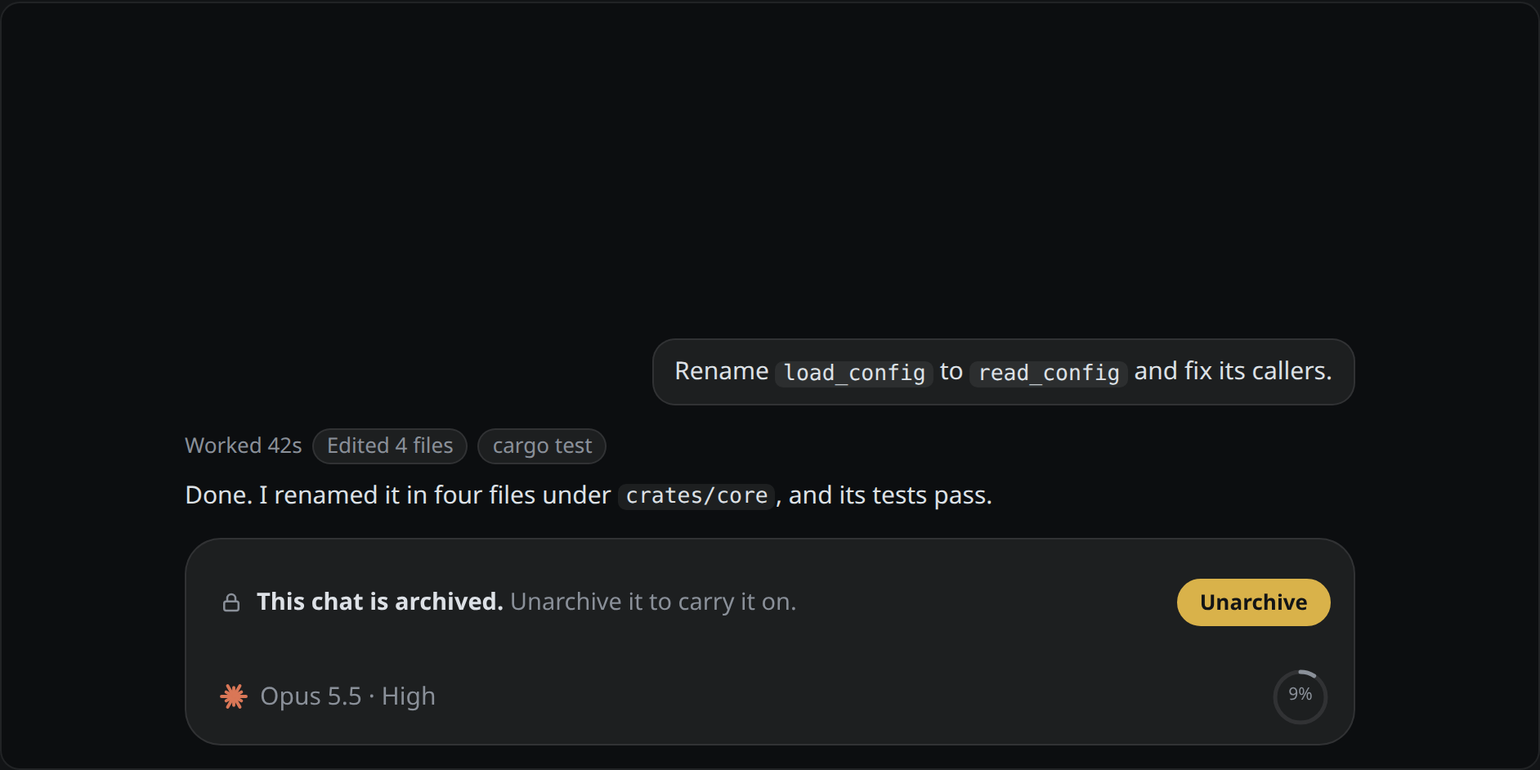
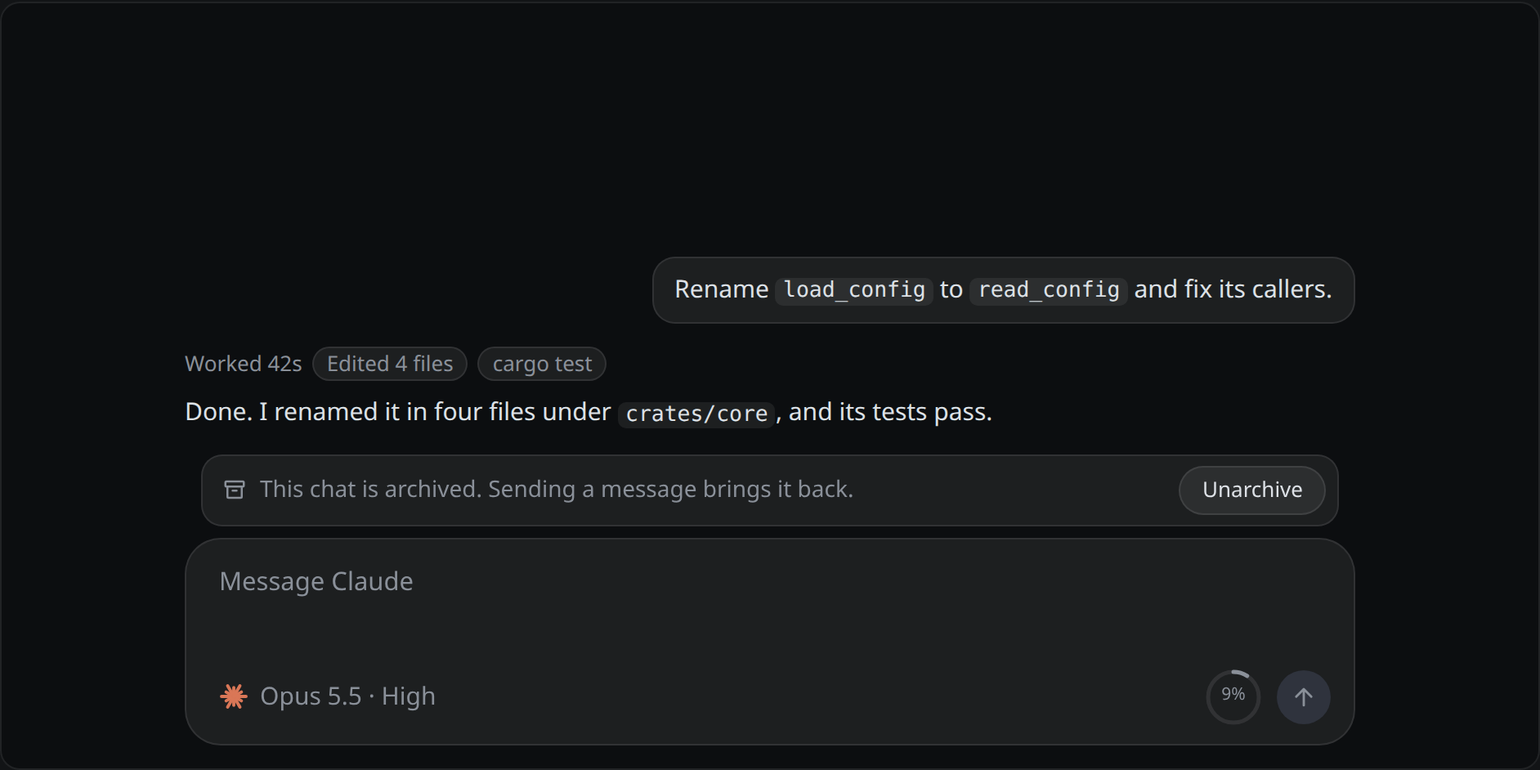
docs: an archived chat's composer stays usable, as sending brings it back
Sending to an archived chat unarchives it, so CAF SI's composer no longer
locks it: the tray says This chat is archived. Sending a message brings it
back., with Unarchive, and only the settings can't be chosen. The chats
page brings an archived chat back by a message or Unarchive, the agents
page says a viewer without the agents right has no Check again, and A
chat in the browser names orRestored. Pictures rebuilt.

diff --git a/docs/learn/si-live/chats.html b/docs/learn/si-live/chats.html
@@ -109,6 +109,7 @@
 .si-tray .si-item { display: flex; gap: 10px; align-items: center; padding: 6px 0; border-top: 1px solid var(--raised-edge); }
 .si-tray .si-item:first-of-type { border-top: 0; }
 .si-tray .si-item .si-text { flex: 1; min-width: 0; white-space: nowrap; overflow: hidden; text-overflow: ellipsis; }
+.si-tray.si-note { display: flex; gap: 8px; align-items: center; padding: 6px 7px 6px 12px; color: var(--muted); }
 .si-tray.si-problem { background: var(--warning-bg); border-color: var(--warning-edge); color: var(--warning); display: flex; gap: 8px; align-items: center; padding: 8px 12px; }
 
 /* What attaches on top of the box: questions, the agent banner, refusals.
@@ -412,6 +413,7 @@
     tick: svg('<path d="M5 12l5 5 9-11"/>', '', 'width:15px;height:15px'),
     warn: svg('<path d="M12 3l10 18H2z"/><path d="M12 10v4M12 17.5v.5"/>', '', 'width:15px;height:15px'),
     lock: svg('<rect x="5" y="11" width="14" height="9" rx="2"/><path d="M8 11V8a4 4 0 018 0v3"/>', '', 'width:15px;height:15px'),
+    archive: svg('<rect x="3" y="4" width="18" height="5" rx="1"/><path d="M5 9v10a1 1 0 001 1h12a1 1 0 001-1V9M10 13h4"/>', '', 'width:15px;height:15px'),
     unplug: svg('<path d="M9 7V3M15 7V3M7 7h10v4a5 5 0 01-10 0zM12 16v5M3 3l18 18"/>', '', 'width:15px;height:15px'),
     search: svg('<circle cx="11" cy="11" r="7"/><path d="M20 20l-4-4"/>', '', 'width:15px;height:15px'),
     star: svg('<path d="M12 3l2.7 5.6 6.1.8-4.5 4.2 1.1 6.1L12 16.8 6.6 19.7l1.1-6.1L3.2 9.4l6.1-.8z"/>', '', 'width:15px;height:15px'),
@@ -459,9 +461,11 @@
   const DEFAULTS = {
     agent: 'claude',
     text: '', running: false, stopping: false, waiting: 0, waitingFor: 'this turn', waitingNote: null, problem: null, gate: false,
-    // A string, or { text, icon: 'lock' | 'unplug', bold, action }: nothing can be sent.
-    // An action, such as Unarchive, is the one thing to do, as a button.
+    // A string, or { text, icon: 'lock' | 'unplug', bold }: nothing can be sent.
     blocked: null,
+    // Archived: the tray says so and offers Unarchive; the box is as usual,
+    // but the settings can't be chosen.
+    archived: false,
     // known | unknown | learning | failed | none
     settings: 'known',
     // Why CAF couldn't learn the settings, as the composer page words it, and
@@ -493,6 +497,8 @@
     if (s.settings === 'learning') return `<span class="si-control si-quiet">${m}<span class="si-label">Learning ${name}'s settings…</span>${icon.spin}</span>`
     if (s.settings === 'unknown') return `<span class="si-control si-quiet${s.menu ? ' si-open' : ''}">${m}<span class="si-label">${s.narrow ? 'Settings' : s.newChat ? name : 'Settings not known yet'}</span>${icon.chev}</span>`
     if (s.settings === 'failed') return `<span class="si-control si-quiet${s.menu ? ' si-open' : ''}">${m}<span class="si-label">${s.narrow ? 'Settings' : `Couldn't learn ${name}'s settings`}</span>${icon.chev}</span>`
+    // Archived, the settings can't be chosen: shown, as when nothing can be sent, with nothing to open.
+    if (s.archived) return `<span class="si-control si-quiet">${m}<span class="si-label">${s.model} · ${s.effort}</span></span>`
     const part = (now, later) => later ? `<span class="si-part si-held" title="${s.running ? 'From the next turn' : 'Not applied yet'}">${icon.clock}${later}</span>` : `<span class="si-part">${now}</span>`
     const fast = OFFERS[s.model] && OFFERS[s.model].fast && s.fast
     return `<span class="si-control${s.menu ? ' si-open' : ''}">${m}<span class="si-label">${part(s.model, s.held.model)}<span class="si-sep">·</span>${part(s.effort, s.held.effort)}${fast ? icon.bolt : ''}</span>${icon.chev}</span>`
@@ -554,12 +560,13 @@
         waiting.map(t => `<div class="si-item">${icon.clock}<span class="si-text">${t}</span></div>`).join('') + '</div>'
     }
     if (s.problem) h += `<div class="si-tray si-problem">${icon.warn}${s.problem}</div>`
+    if (s.archived) h += `<div class="si-tray si-note">${icon.archive}<span>This chat is archived. Sending a message brings it back.</span><span class="si-spacer"></span><span class="si-btn">Unarchive</span></div>`
     h += s.attached
     const joined = s.attached ? ` si-joined${s.joined ? ' si-' + s.joined : ''}` : ''
     h += `<div class="si-box${joined}">`
     if (s.blocked) {
       const b = typeof s.blocked === 'string' ? { text: s.blocked } : s.blocked
-      h += `<div class="si-locked">${icon[b.icon || 'lock']}<span>${b.bold ? `<b>${b.bold}</b> ` : ''}${b.text}</span>${b.action ? `<span class="si-spacer"></span><span class="si-btn si-primary">${b.action}</span>` : ''}</div>`
+      h += `<div class="si-locked">${icon[b.icon || 'lock']}<span>${b.bold ? `<b>${b.bold}</b> ` : ''}${b.text}</span></div>`
       if (b.controls !== false) h += `<div class="si-controls"><span class="si-control si-quiet">${mark(s.agent)}<span class="si-label">${s.settings === 'known' ? s.model + ' · ' + s.effort : name}</span></span><span class="si-spacer"></span>${ring(s)}</div>`
       return h + `</div>${s.after}</div></div>`
     }
@@ -692,7 +699,7 @@
     { id: 'cant-appdata', label: "Can't restore: app's data", note: "The app can't read the data it saved with the chat. Nothing helps but a version of the app that can, so there are no actions.", render: () => failure('appdata') },
     { id: 'cant-store', label: "Can't restore: couldn't read", note: 'The store failed, such as a disk error. What the system said is shown. Trying again may help.', render: () => failure('store') },
     { id: 'cant-gone', label: "Can't restore: gone", note: "Its save has gone. Remove from list lists the chats again, and it drops out. A viewer, which can't list them, offers nothing.", render: () => failure('gone') },
-    { id: 'archived', label: 'An archived chat, opened', note: "Opening an archived chat restores it, as any saved chat, and it's still archived: the header says so, and the composer is locked, offering Unarchive. Unarchiving it, or a message sent to it, makes it an ordinary chat again.", render: () => head('Fix the restore race', { badge: '<span class="badge">Archived</span>' }) + `<div class="body"><div class="column">${convo}</div></div>` + composer({ blocked: { bold: 'This chat is archived.', text: 'Unarchive it to carry it on.', action: 'Unarchive' } }) },
+    { id: 'archived', label: 'An archived chat, opened', note: "Opening an archived chat restores it, as any saved chat, and it's still archived: the header says so, and the composer's tray says so, offering Unarchive. A message sent to it, or Unarchive, makes it an ordinary chat again.", render: () => head('Fix the restore race', { badge: '<span class="badge">Archived</span>' }) + `<div class="body"><div class="column">${convo}</div></div>` + composer({ archived: true }) },
     { id: 'agent-gone', label: 'Agent gone', note: "Its agent isn't offered by this app any more, so it can be read but not carried on. The box says why instead of offering to send.", render: () => head('Parser fuzzing notes', { mark: MARK.gemini }) + `<div class="body"><div class="column">${FUZZ}</div></div>` + composer({ agent: 'gemini', settings: 'none', context: 31, blocked: { icon: 'unplug', bold: "Gemini isn't available in this app any more.", text: 'You can read this chat, but not carry it on.' } }) + `` },
     { id: 'own-tools', label: 'Own tools on', note: "Its agent is offered, but CAF won't run it, as it can't turn off the agent's own tools: the app chose the cautious profile, or the agent isn't the one its profile is for. Like an agent gone, it can be read but not carried on.", render: () => head('Fix the empty-file panic') + `<div class="body"><div class="column">${convo}</div></div>` + composer({ settings: 'none', context: 18, blocked: { icon: 'lock', bold: "Claude can't be used: its own tools can't be turned off.", text: 'You can read this chat, but not carry it on.' } }) },
     { id: 'new', label: 'New chat', note: "An empty chat with the usual composer: the settings control picks the agent and its model (the menu's rail lists every agent in a new chat). There's no context yet, so no ring. This app fixes the folder, so there's no folder control.", render: () => head('New chat') + `<div class="body"><div class="centre">${rays('var(--claude)', 30)}<h3>New chat</h3>Send a message to start.</div></div>` + composer({ newChat: true, context: null }) },

diff --git a/docs/learn/si-live/compose.html b/docs/learn/si-live/compose.html
@@ -109,6 +109,7 @@
 .si-tray .si-item { display: flex; gap: 10px; align-items: center; padding: 6px 0; border-top: 1px solid var(--raised-edge); }
 .si-tray .si-item:first-of-type { border-top: 0; }
 .si-tray .si-item .si-text { flex: 1; min-width: 0; white-space: nowrap; overflow: hidden; text-overflow: ellipsis; }
+.si-tray.si-note { display: flex; gap: 8px; align-items: center; padding: 6px 7px 6px 12px; color: var(--muted); }
 .si-tray.si-problem { background: var(--warning-bg); border-color: var(--warning-edge); color: var(--warning); display: flex; gap: 8px; align-items: center; padding: 8px 12px; }
 
 /* What attaches on top of the box: questions, the agent banner, refusals.
@@ -321,6 +322,7 @@
     tick: svg('<path d="M5 12l5 5 9-11"/>', '', 'width:15px;height:15px'),
     warn: svg('<path d="M12 3l10 18H2z"/><path d="M12 10v4M12 17.5v.5"/>', '', 'width:15px;height:15px'),
     lock: svg('<rect x="5" y="11" width="14" height="9" rx="2"/><path d="M8 11V8a4 4 0 018 0v3"/>', '', 'width:15px;height:15px'),
+    archive: svg('<rect x="3" y="4" width="18" height="5" rx="1"/><path d="M5 9v10a1 1 0 001 1h12a1 1 0 001-1V9M10 13h4"/>', '', 'width:15px;height:15px'),
     unplug: svg('<path d="M9 7V3M15 7V3M7 7h10v4a5 5 0 01-10 0zM12 16v5M3 3l18 18"/>', '', 'width:15px;height:15px'),
     search: svg('<circle cx="11" cy="11" r="7"/><path d="M20 20l-4-4"/>', '', 'width:15px;height:15px'),
     star: svg('<path d="M12 3l2.7 5.6 6.1.8-4.5 4.2 1.1 6.1L12 16.8 6.6 19.7l1.1-6.1L3.2 9.4l6.1-.8z"/>', '', 'width:15px;height:15px'),
@@ -368,9 +370,11 @@
   const DEFAULTS = {
     agent: 'claude',
     text: '', running: false, stopping: false, waiting: 0, waitingFor: 'this turn', waitingNote: null, problem: null, gate: false,
-    // A string, or { text, icon: 'lock' | 'unplug', bold, action }: nothing can be sent.
-    // An action, such as Unarchive, is the one thing to do, as a button.
+    // A string, or { text, icon: 'lock' | 'unplug', bold }: nothing can be sent.
     blocked: null,
+    // Archived: the tray says so and offers Unarchive; the box is as usual,
+    // but the settings can't be chosen.
+    archived: false,
     // known | unknown | learning | failed | none
     settings: 'known',
     // Why CAF couldn't learn the settings, as the composer page words it, and
@@ -402,6 +406,8 @@
     if (s.settings === 'learning') return `<span class="si-control si-quiet">${m}<span class="si-label">Learning ${name}'s settings…</span>${icon.spin}</span>`
     if (s.settings === 'unknown') return `<span class="si-control si-quiet${s.menu ? ' si-open' : ''}">${m}<span class="si-label">${s.narrow ? 'Settings' : s.newChat ? name : 'Settings not known yet'}</span>${icon.chev}</span>`
     if (s.settings === 'failed') return `<span class="si-control si-quiet${s.menu ? ' si-open' : ''}">${m}<span class="si-label">${s.narrow ? 'Settings' : `Couldn't learn ${name}'s settings`}</span>${icon.chev}</span>`
+    // Archived, the settings can't be chosen: shown, as when nothing can be sent, with nothing to open.
+    if (s.archived) return `<span class="si-control si-quiet">${m}<span class="si-label">${s.model} · ${s.effort}</span></span>`
     const part = (now, later) => later ? `<span class="si-part si-held" title="${s.running ? 'From the next turn' : 'Not applied yet'}">${icon.clock}${later}</span>` : `<span class="si-part">${now}</span>`
     const fast = OFFERS[s.model] && OFFERS[s.model].fast && s.fast
     return `<span class="si-control${s.menu ? ' si-open' : ''}">${m}<span class="si-label">${part(s.model, s.held.model)}<span class="si-sep">·</span>${part(s.effort, s.held.effort)}${fast ? icon.bolt : ''}</span>${icon.chev}</span>`
@@ -463,12 +469,13 @@
         waiting.map(t => `<div class="si-item">${icon.clock}<span class="si-text">${t}</span></div>`).join('') + '</div>'
     }
     if (s.problem) h += `<div class="si-tray si-problem">${icon.warn}${s.problem}</div>`
+    if (s.archived) h += `<div class="si-tray si-note">${icon.archive}<span>This chat is archived. Sending a message brings it back.</span><span class="si-spacer"></span><span class="si-btn">Unarchive</span></div>`
     h += s.attached
     const joined = s.attached ? ` si-joined${s.joined ? ' si-' + s.joined : ''}` : ''
     h += `<div class="si-box${joined}">`
     if (s.blocked) {
       const b = typeof s.blocked === 'string' ? { text: s.blocked } : s.blocked
-      h += `<div class="si-locked">${icon[b.icon || 'lock']}<span>${b.bold ? `<b>${b.bold}</b> ` : ''}${b.text}</span>${b.action ? `<span class="si-spacer"></span><span class="si-btn si-primary">${b.action}</span>` : ''}</div>`
+      h += `<div class="si-locked">${icon[b.icon || 'lock']}<span>${b.bold ? `<b>${b.bold}</b> ` : ''}${b.text}</span></div>`
       if (b.controls !== false) h += `<div class="si-controls"><span class="si-control si-quiet">${mark(s.agent)}<span class="si-label">${s.settings === 'known' ? s.model + ' · ' + s.effort : name}</span></span><span class="si-spacer"></span>${ring(s)}</div>`
       return h + `</div>${s.after}</div></div>`
     }
@@ -529,7 +536,7 @@
     { id: 'gate', label: 'Agent not ready', what: "<b>The chat is waiting for Claude to be installed.</b> The agent banner attaches to the box, as questions do (see the agents page), and the box says messages will wait.", s: { gate: true } },
     { id: 'filling', label: 'Context filling', what: '<b>The context is 86% full,</b> so the ring turns amber (red past 95%).', s: { context: 86 } },
     { id: 'blocked', label: "Can't write", what: "<b>A viewer without the <code>act</code> right.</b> The box stays in place, says why, and has no controls.", s: { blocked: 'You can follow this chat, but not write in it.' } },
-    { id: 'archived', label: 'Archived', what: "<b>An archived chat,</b> restored or not: it stays archived until it's unarchived. The box is locked, says so, and offers Unarchive, which makes it an ordinary chat again.", s: { blocked: { bold: 'This chat is archived.', text: 'Unarchive it to carry it on.', action: 'Unarchive' } } },
+    { id: 'archived', label: 'Archived', what: "<b>An archived chat,</b> restored or not: it stays archived until it's brought back. Sending a message brings it back, so the box is as usual; the tray says so, and offers Unarchive. Only the settings can't be chosen meanwhile.", s: { archived: true } },
   ]
 
   // The agent banner, as agents.html draws it, attached to the box.

diff --git a/docs/si/si.js b/docs/si/si.js
@@ -21,6 +21,7 @@
     tick: svg('<path d="M5 12l5 5 9-11"/>', '', 'width:15px;height:15px'),
     warn: svg('<path d="M12 3l10 18H2z"/><path d="M12 10v4M12 17.5v.5"/>', '', 'width:15px;height:15px'),
     lock: svg('<rect x="5" y="11" width="14" height="9" rx="2"/><path d="M8 11V8a4 4 0 018 0v3"/>', '', 'width:15px;height:15px'),
+    archive: svg('<rect x="3" y="4" width="18" height="5" rx="1"/><path d="M5 9v10a1 1 0 001 1h12a1 1 0 001-1V9M10 13h4"/>', '', 'width:15px;height:15px'),
     unplug: svg('<path d="M9 7V3M15 7V3M7 7h10v4a5 5 0 01-10 0zM12 16v5M3 3l18 18"/>', '', 'width:15px;height:15px'),
     search: svg('<circle cx="11" cy="11" r="7"/><path d="M20 20l-4-4"/>', '', 'width:15px;height:15px'),
     star: svg('<path d="M12 3l2.7 5.6 6.1.8-4.5 4.2 1.1 6.1L12 16.8 6.6 19.7l1.1-6.1L3.2 9.4l6.1-.8z"/>', '', 'width:15px;height:15px'),
@@ -68,9 +69,11 @@
   const DEFAULTS = {
     agent: 'claude',
     text: '', running: false, stopping: false, waiting: 0, waitingFor: 'this turn', waitingNote: null, problem: null, gate: false,
-    // A string, or { text, icon: 'lock' | 'unplug', bold, action }: nothing can be sent.
-    // An action, such as Unarchive, is the one thing to do, as a button.
+    // A string, or { text, icon: 'lock' | 'unplug', bold }: nothing can be sent.
     blocked: null,
+    // Archived: the tray says so and offers Unarchive; the box is as usual,
+    // but the settings can't be chosen.
+    archived: false,
     // known | unknown | learning | failed | none
     settings: 'known',
     // Why CAF couldn't learn the settings, as the composer page words it, and
@@ -102,6 +105,8 @@
     if (s.settings === 'learning') return `<span class="si-control si-quiet">${m}<span class="si-label">Learning ${name}'s settings…</span>${icon.spin}</span>`
     if (s.settings === 'unknown') return `<span class="si-control si-quiet${s.menu ? ' si-open' : ''}">${m}<span class="si-label">${s.narrow ? 'Settings' : s.newChat ? name : 'Settings not known yet'}</span>${icon.chev}</span>`
     if (s.settings === 'failed') return `<span class="si-control si-quiet${s.menu ? ' si-open' : ''}">${m}<span class="si-label">${s.narrow ? 'Settings' : `Couldn't learn ${name}'s settings`}</span>${icon.chev}</span>`
+    // Archived, the settings can't be chosen: shown, as when nothing can be sent, with nothing to open.
+    if (s.archived) return `<span class="si-control si-quiet">${m}<span class="si-label">${s.model} · ${s.effort}</span></span>`
     const part = (now, later) => later ? `<span class="si-part si-held" title="${s.running ? 'From the next turn' : 'Not applied yet'}">${icon.clock}${later}</span>` : `<span class="si-part">${now}</span>`
     const fast = OFFERS[s.model] && OFFERS[s.model].fast && s.fast
     return `<span class="si-control${s.menu ? ' si-open' : ''}">${m}<span class="si-label">${part(s.model, s.held.model)}<span class="si-sep">·</span>${part(s.effort, s.held.effort)}${fast ? icon.bolt : ''}</span>${icon.chev}</span>`
@@ -163,12 +168,13 @@
         waiting.map(t => `<div class="si-item">${icon.clock}<span class="si-text">${t}</span></div>`).join('') + '</div>'
     }
     if (s.problem) h += `<div class="si-tray si-problem">${icon.warn}${s.problem}</div>`
+    if (s.archived) h += `<div class="si-tray si-note">${icon.archive}<span>This chat is archived. Sending a message brings it back.</span><span class="si-spacer"></span><span class="si-btn">Unarchive</span></div>`
     h += s.attached
     const joined = s.attached ? ` si-joined${s.joined ? ' si-' + s.joined : ''}` : ''
     h += `<div class="si-box${joined}">`
     if (s.blocked) {
       const b = typeof s.blocked === 'string' ? { text: s.blocked } : s.blocked
-      h += `<div class="si-locked">${icon[b.icon || 'lock']}<span>${b.bold ? `<b>${b.bold}</b> ` : ''}${b.text}</span>${b.action ? `<span class="si-spacer"></span><span class="si-btn si-primary">${b.action}</span>` : ''}</div>`
+      h += `<div class="si-locked">${icon[b.icon || 'lock']}<span>${b.bold ? `<b>${b.bold}</b> ` : ''}${b.text}</span></div>`
       if (b.controls !== false) h += `<div class="si-controls"><span class="si-control si-quiet">${mark(s.agent)}<span class="si-label">${s.settings === 'known' ? s.model + ' · ' + s.effort : name}</span></span><span class="si-spacer"></span>${ring(s)}</div>`
       return h + `</div>${s.after}</div></div>`
     }

diff --git a/docs/si/chats.html b/docs/si/chats.html
@@ -309,7 +309,7 @@
     { id: 'cant-appdata', label: "Can't restore: app's data", note: "The app can't read the data it saved with the chat. Nothing helps but a version of the app that can, so there are no actions.", render: () => failure('appdata') },
     { id: 'cant-store', label: "Can't restore: couldn't read", note: 'The store failed, such as a disk error. What the system said is shown. Trying again may help.', render: () => failure('store') },
     { id: 'cant-gone', label: "Can't restore: gone", note: "Its save has gone. Remove from list lists the chats again, and it drops out. A viewer, which can't list them, offers nothing.", render: () => failure('gone') },
-    { id: 'archived', label: 'An archived chat, opened', note: "Opening an archived chat restores it, as any saved chat, and it's still archived: the header says so, and the composer is locked, offering Unarchive. Unarchiving it, or a message sent to it, makes it an ordinary chat again.", render: () => head('Fix the restore race', { badge: '<span class="badge">Archived</span>' }) + `<div class="body"><div class="column">${convo}</div></div>` + composer({ blocked: { bold: 'This chat is archived.', text: 'Unarchive it to carry it on.', action: 'Unarchive' } }) },
+    { id: 'archived', label: 'An archived chat, opened', note: "Opening an archived chat restores it, as any saved chat, and it's still archived: the header says so, and the composer's tray says so, offering Unarchive. A message sent to it, or Unarchive, makes it an ordinary chat again.", render: () => head('Fix the restore race', { badge: '<span class="badge">Archived</span>' }) + `<div class="body"><div class="column">${convo}</div></div>` + composer({ archived: true }) },
     { id: 'agent-gone', label: 'Agent gone', note: "Its agent isn't offered by this app any more, so it can be read but not carried on. The box says why instead of offering to send.", render: () => head('Parser fuzzing notes', { mark: MARK.gemini }) + `<div class="body"><div class="column">${FUZZ}</div></div>` + composer({ agent: 'gemini', settings: 'none', context: 31, blocked: { icon: 'unplug', bold: "Gemini isn't available in this app any more.", text: 'You can read this chat, but not carry it on.' } }) + `` },
     { id: 'own-tools', label: 'Own tools on', note: "Its agent is offered, but CAF won't run it, as it can't turn off the agent's own tools: the app chose the cautious profile, or the agent isn't the one its profile is for. Like an agent gone, it can be read but not carried on.", render: () => head('Fix the empty-file panic') + `<div class="body"><div class="column">${convo}</div></div>` + composer({ settings: 'none', context: 18, blocked: { icon: 'lock', bold: "Claude can't be used: its own tools can't be turned off.", text: 'You can read this chat, but not carry it on.' } }) },
     { id: 'new', label: 'New chat', note: "An empty chat with the usual composer: the settings control picks the agent and its model (the menu's rail lists every agent in a new chat). There's no context yet, so no ring. This app fixes the folder, so there's no folder control.", render: () => head('New chat') + `<div class="body"><div class="centre">${rays('var(--claude)', 30)}<h3>New chat</h3>Send a message to start.</div></div>` + composer({ newChat: true, context: null }) },

diff --git a/docs/si/compose.html b/docs/si/compose.html
@@ -146,7 +146,7 @@
     { id: 'gate', label: 'Agent not ready', what: "<b>The chat is waiting for Claude to be installed.</b> The agent banner attaches to the box, as questions do (see the agents page), and the box says messages will wait.", s: { gate: true } },
     { id: 'filling', label: 'Context filling', what: '<b>The context is 86% full,</b> so the ring turns amber (red past 95%).', s: { context: 86 } },
     { id: 'blocked', label: "Can't write", what: "<b>A viewer without the <code>act</code> right.</b> The box stays in place, says why, and has no controls.", s: { blocked: 'You can follow this chat, but not write in it.' } },
-    { id: 'archived', label: 'Archived', what: "<b>An archived chat,</b> restored or not: it stays archived until it's unarchived. The box is locked, says so, and offers Unarchive, which makes it an ordinary chat again.", s: { blocked: { bold: 'This chat is archived.', text: 'Unarchive it to carry it on.', action: 'Unarchive' } } },
+    { id: 'archived', label: 'Archived', what: "<b>An archived chat,</b> restored or not: it stays archived until it's brought back. Sending a message brings it back, so the box is as usual; the tray says so, and offers Unarchive. Only the settings can't be chosen meanwhile.", s: { archived: true } },
   ]
 
   // The agent banner, as agents.html draws it, attached to the box.

diff --git a/docs/si/si.css b/docs/si/si.css
@@ -102,6 +102,7 @@
 .si-tray .si-item { display: flex; gap: 10px; align-items: center; padding: 6px 0; border-top: 1px solid var(--raised-edge); }
 .si-tray .si-item:first-of-type { border-top: 0; }
 .si-tray .si-item .si-text { flex: 1; min-width: 0; white-space: nowrap; overflow: hidden; text-overflow: ellipsis; }
+.si-tray.si-note { display: flex; gap: 8px; align-items: center; padding: 6px 7px 6px 12px; color: var(--muted); }
 .si-tray.si-problem { background: var(--warning-bg); border-color: var(--warning-edge); color: var(--warning); display: flex; gap: 8px; align-items: center; padding: 8px 12px; }
 
 /* What attaches on top of the box: questions, the agent banner, refusals.

diff --git a/docs/learn/2--developer-tools.shelf/caf.product/3--standard-interface.topic/200--composer.md b/docs/learn/2--developer-tools.shelf/caf.product/3--standard-interface.topic/200--composer.md
@@ -34,7 +34,7 @@ bottom. Nothing sits above the text inside the box.
 | The settings control | Bottom left | The agent's mark and one control for all its settings: *Opus 5.5 · High*, with a bolt when fast mode is on. It opens the settings menu. |
 | The context ring | Bottom right | How full the agent's context is, as a ring and a percent. It opens the usage popover. |
 | The round button | Bottom right, after the ring | **Send**, or **Stop** while a turn runs or the chat opens, and the box is empty. |
-| The tray | Above the box | Messages waiting to be sent, or why a message couldn't be sent. |
+| The tray | Above the box | Messages waiting to be sent, why a message couldn't be sent, or that the chat is archived. |
 | What's attached | Between the tray and the box, joined to the box | A question waiting on the user, or the agent banner. Only one at a time. |
 
 From the top, then: the tray, then what's attached, then the box.
@@ -78,10 +78,11 @@ words are never lost. The words, by what happened:
 | The agent can't take the message (`Refused::Unsupported`) | *Couldn't send: Claude can't take this message.* |
 | The chat isn't open any more (`Refused::NoSuchChat`) | *Couldn't send: this chat isn't open any more.* |
 
-A chat that's archived (`Chat.archived`), or whose agent is gone or can't
-be run (`Refused::NoSuchAgent`, `Refused::OwnTools`), shows
-[Can't write](#what-the-chat-allows) instead, so the user isn't invited to
-send at all.
+A chat whose agent is gone or can't be run (`Refused::NoSuchAgent`,
+`Refused::OwnTools`) shows [Can't write](#what-the-chat-allows) instead, so
+the user isn't invited to send at all. An archived chat isn't one: a
+message to it is sent, and brings it back, as
+[Archived](#what-the-chat-allows) says.
 
 ## Messages that wait
 
@@ -338,6 +339,25 @@ before the agent has said, has no ring. Clicking the ring opens the usage
 popover, and a dot on the ring warns of an account limit running low: see
 [Usage](~caf/standard-interface/usage).
 
+![An archived chat's composer](composer-archived.webp "Archived: the tray says so, and the box is as usual")
+
+**Archived.** A chat stays archived (`Chat.archived`), restored or not,
+until it's brought back. Sending a message brings it back: CAF unarchives
+it and sends the message as to any other (`Core::send`). So the box stays
+as usual, and the user can write and send. The tray says, calm, with an
+archive box, *This chat is archived. Sending a message brings it back.*,
+and offers **Unarchive**, plain, at its other end, which brings it back
+without sending (`Core::unarchive`; a viewer's `Unarchive`, with the `act`
+right). Either way the note goes at once, and the chat is an ordinary one,
+its agent started when a message is sent, as for a restored chat.
+
+While it's archived, only its settings can't be chosen, as CAF refuses to
+change them (`Refused::Closed`): the control shows the model and effort,
+without the bolt or the chevron, and can't be opened, as when the user
+can't write. They can be chosen again once it's back. A viewer without the
+`act` right sees the note without Unarchive, and the box as
+[Can't write](#what-the-chat-allows) says.
+
 ![A composer the user can't write in](composer-blocked.webp "Watch-only: the box stays and says why")
 
 **Can't write.** The box stays where it is, with a lock, and says why, by
@@ -346,23 +366,8 @@ the first of these that holds:
 | Why | The box says |
 | --- | --- |
 | The viewer has no `act` right | *You can follow this chat, but not write in it.* |
-| The chat is archived (`Chat.archived`) | ***This chat is archived.*** *Unarchive it to carry it on.*, with **Unarchive** |
 | Its agent is gone, or CAF won't run it | As [A chat's identity and lifecycle](~caf/standard-interface/chats) says |
 | Its agent can never be installed on this machine | As [Agents](~caf/standard-interface/agents) says |
-
-![An archived chat's composer](composer-archived.webp "Archived: the box is locked, and offers Unarchive")
-
-**Archived.** A chat stays archived, restored or not, until it's
-unarchived. **Unarchive**, the primary button at the end of the line, makes
-it an ordinary chat again, and the box unlocks: nothing more happens until
-the user sends, which starts the agent, as for a restored chat
-(`Core::unarchive`; a viewer's `Unarchive`, with the `act` right). Sending
-to an archived chat unarchives it too: CAF takes a message to it as the
-user carrying it on (`Core::send`). The box stays locked all the same, so
-the user takes it out of the archive knowingly, with one press; an app
-that sends without the composer, such as for a shortcut or a script,
-needn't unarchive first. The settings stay locked while it's archived, as
-CAF refuses to change them (`Refused::Closed`).
 
 It has no Send, Stop or settings menu. The control shows the model and
 effort, without the bolt or the chevron, and can't be opened; the ring stays.
@@ -398,8 +403,9 @@ half a word.
 | A change not applied yet | `settings.chosen` differing from `current`, when `offered` holds the setting and its `current` is known. |
 | The model divider | `Turn.model` differing from the turn before. |
 | The context ring | `Usage.used` and `Usage.size`. |
-| Whether the user may write | The viewer's `act` right, `Chat.archived`, and the chat's state. |
-| **Unarchive** | `Core::unarchive`, or a viewer's `Unarchive`, with the `act` right: `Chat.archived` goes back to none, by `Change::Archived`. `Core::send` unarchives a chat too. |
+| Whether the user may write | The viewer's `act` right, and the chat's state. |
+| Archived | `Chat.archived`, by `Change::Archived`; `Refused::Closed` for a setting chosen meanwhile. |
+| **Unarchive** | `Core::unarchive`, or a viewer's `Unarchive`, with the `act` right: `Chat.archived` goes back to none. `Core::send` unarchives a chat too, then sends. |
 | Why the settings couldn't be learned | `AgentStatus.settings`'s `Failed`, a `LearnFailure`; the system's words in `CouldNotStart.error`, the agent's in `Refused.message`. |
 | **Learn them now** | The viewer's `agents` right; `Core::learn_settings`. |
 | The agent banner | The agent's status, as [Agents](~caf/standard-interface/agents) describes. |

diff --git a/docs/learn/2--developer-tools.shelf/caf.product/3--standard-interface.topic/500--chats.md b/docs/learn/2--developer-tools.shelf/caf.product/3--standard-interface.topic/500--chats.md
@@ -283,26 +283,26 @@ it's muted, with an *Archived* badge, and the full identity shows on its
 right when it was archived, in place of when it last changed. A chat saved
 archived before CAF kept when shows when it last changed instead.
 
-![An archived chat, opened](chats-archived.webp "Opened, it's still archived: the composer offers Unarchive")
+![An archived chat, opened](chats-archived.webp "Opened, it's still archived: the tray says so, and sending brings it back")
 
 **Opening an archived chat** restores it, as any saved chat, and it's
 still archived: archiving sticks. The chat shows it as anywhere else, with
 its title and the *Archived* badge in the app's header for it, and its
-composer is locked: *This chat is archived. Unarchive it to carry it on.*,
-with **Unarchive**, as
+composer's tray says *This chat is archived. Sending a message brings it
+back.*, with **Unarchive**, as
 [The composer](~caf/standard-interface/composer#what-the-chat-allows)
-shows. It can be read, and its settings can't be changed.
+shows. It can be read, and written in; only its settings can't be changed
+meanwhile.
 
-**Unarchive** makes it an ordinary chat again, at once: the badge goes, the
-composer unlocks, and nothing else happens until the user sends, which
-starts its agent. **Sending to an archived chat unarchives it** too: CAF
-takes a message to it as the user carrying it on. Only an app that sends
-without the composer meets this, as the composer stays locked until the
-user unarchives. Either way, the chat goes back to how it's shown when
-it's idle.
+**Bringing it back.** A message sent to an archived chat brings it back:
+CAF unarchives it, then sends the message as to any other. **Unarchive**
+brings it back without sending. Either way it's an ordinary chat again at
+once: the badge and the tray's note go, and its agent starts when a
+message is sent, as for a restored chat. Wherever it's listed, it goes
+back to how its state shows it.
 
-A chat that isn't saved, once archived, stays in memory until the app
-stops, archived, and is unarchived the same way.
+A chat that isn't saved, once archived, stays in memory, archived, until
+the app stops, and is brought back the same way.
 
 ## An agent that's gone
 

diff --git a/docs/learn/2--developer-tools.shelf/caf.product/1--getting-started.topic/300--a-chat-in-the-browser.md b/docs/learn/2--developer-tools.shelf/caf.product/1--getting-started.topic/300--a-chat-in-the-browser.md
@@ -535,11 +535,13 @@ care where the chat came from:
 
 It offers only what `may` lets it: without `act`, the chat can be watched,
 not acted in; without `agents`, it says what's happening to the agent but
-offers no Install, sign-in or Check again. An archived chat's composer is
-locked, saying so, and offers Unarchive, if `unarchive` is given. A saved
-chat is put away as it's archived, so CAF refuses to unarchive it until
-it's restored: `unarchiveOrRestore`, from the same folder, restores it
-first, archived still, then unarchives it, as the debugger does.
+offers no Install, sign-in or Check again. An archived chat says so above
+its composer, which stays usable, as sending brings it back, and offers
+Unarchive, if `unarchive` is given; only its settings can't be chosen. A
+saved chat is put away as it's archived, so CAF refuses to send to it or
+unarchive it until it's restored: `orRestored`, from the same folder,
+restores it first, archived still, then tries again, as the debugger
+does.
 
 Given its agent's status, the view also shows what the agent needs before
 the chat can go on. While the chat waits for an agent that isn't

diff --git a/docs/learn/2--developer-tools.shelf/caf.product/3--standard-interface.topic/400--agents.md b/docs/learn/2--developer-tools.shelf/caf.product/3--standard-interface.topic/400--agents.md
@@ -240,8 +240,10 @@ or *…and this machine has no Node.* when it has none. Then
 **Check again** has CAF look again (`Core::check_agents`, or a viewer's
 `CheckAgain`); if the machine now has what's needed, the banner turns to
 Install. It looks at what's installed and what the machine has for every
-agent, not only this one. CAF never installs Node itself. The app may also
-look again by itself, such as when its window comes to the front.
+agent, not only this one. CAF never installs Node itself. Check again
+needs the `agents` right: a viewer without it has none, and the app looks
+again itself, such as when its window comes to the front, which any app
+may do too.
 
 ![Can't: npm](agents-npm.webp "The machine has no npm")
 
